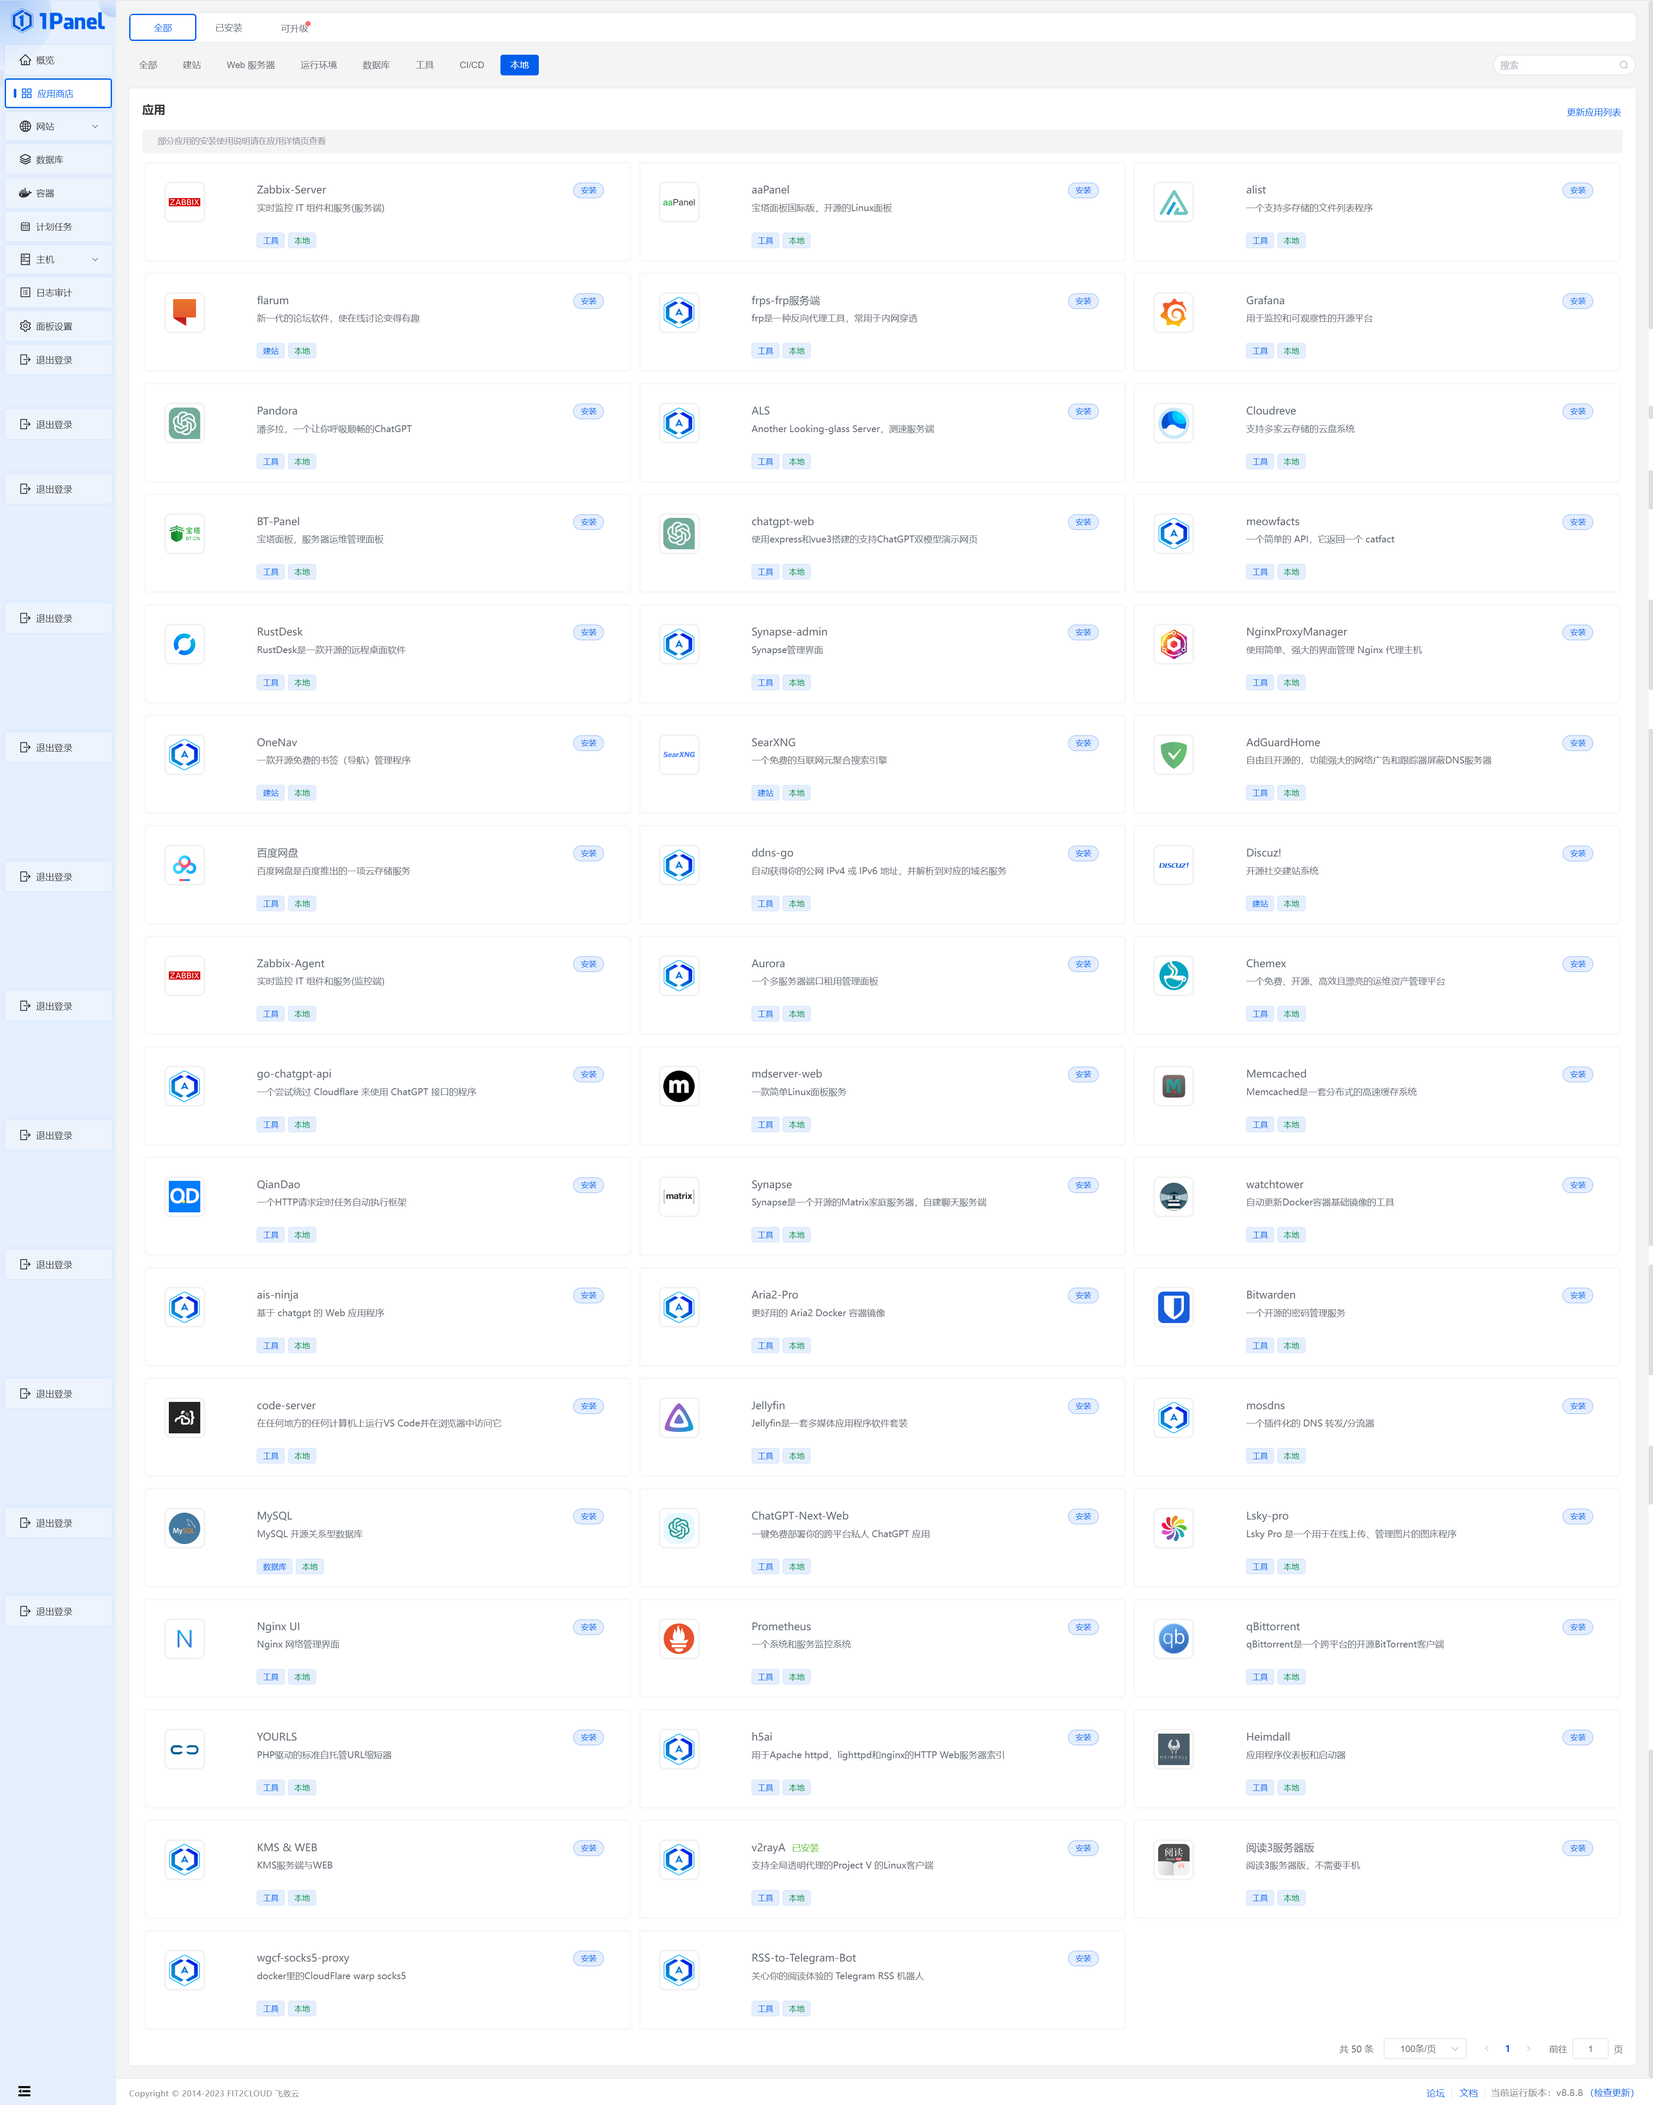
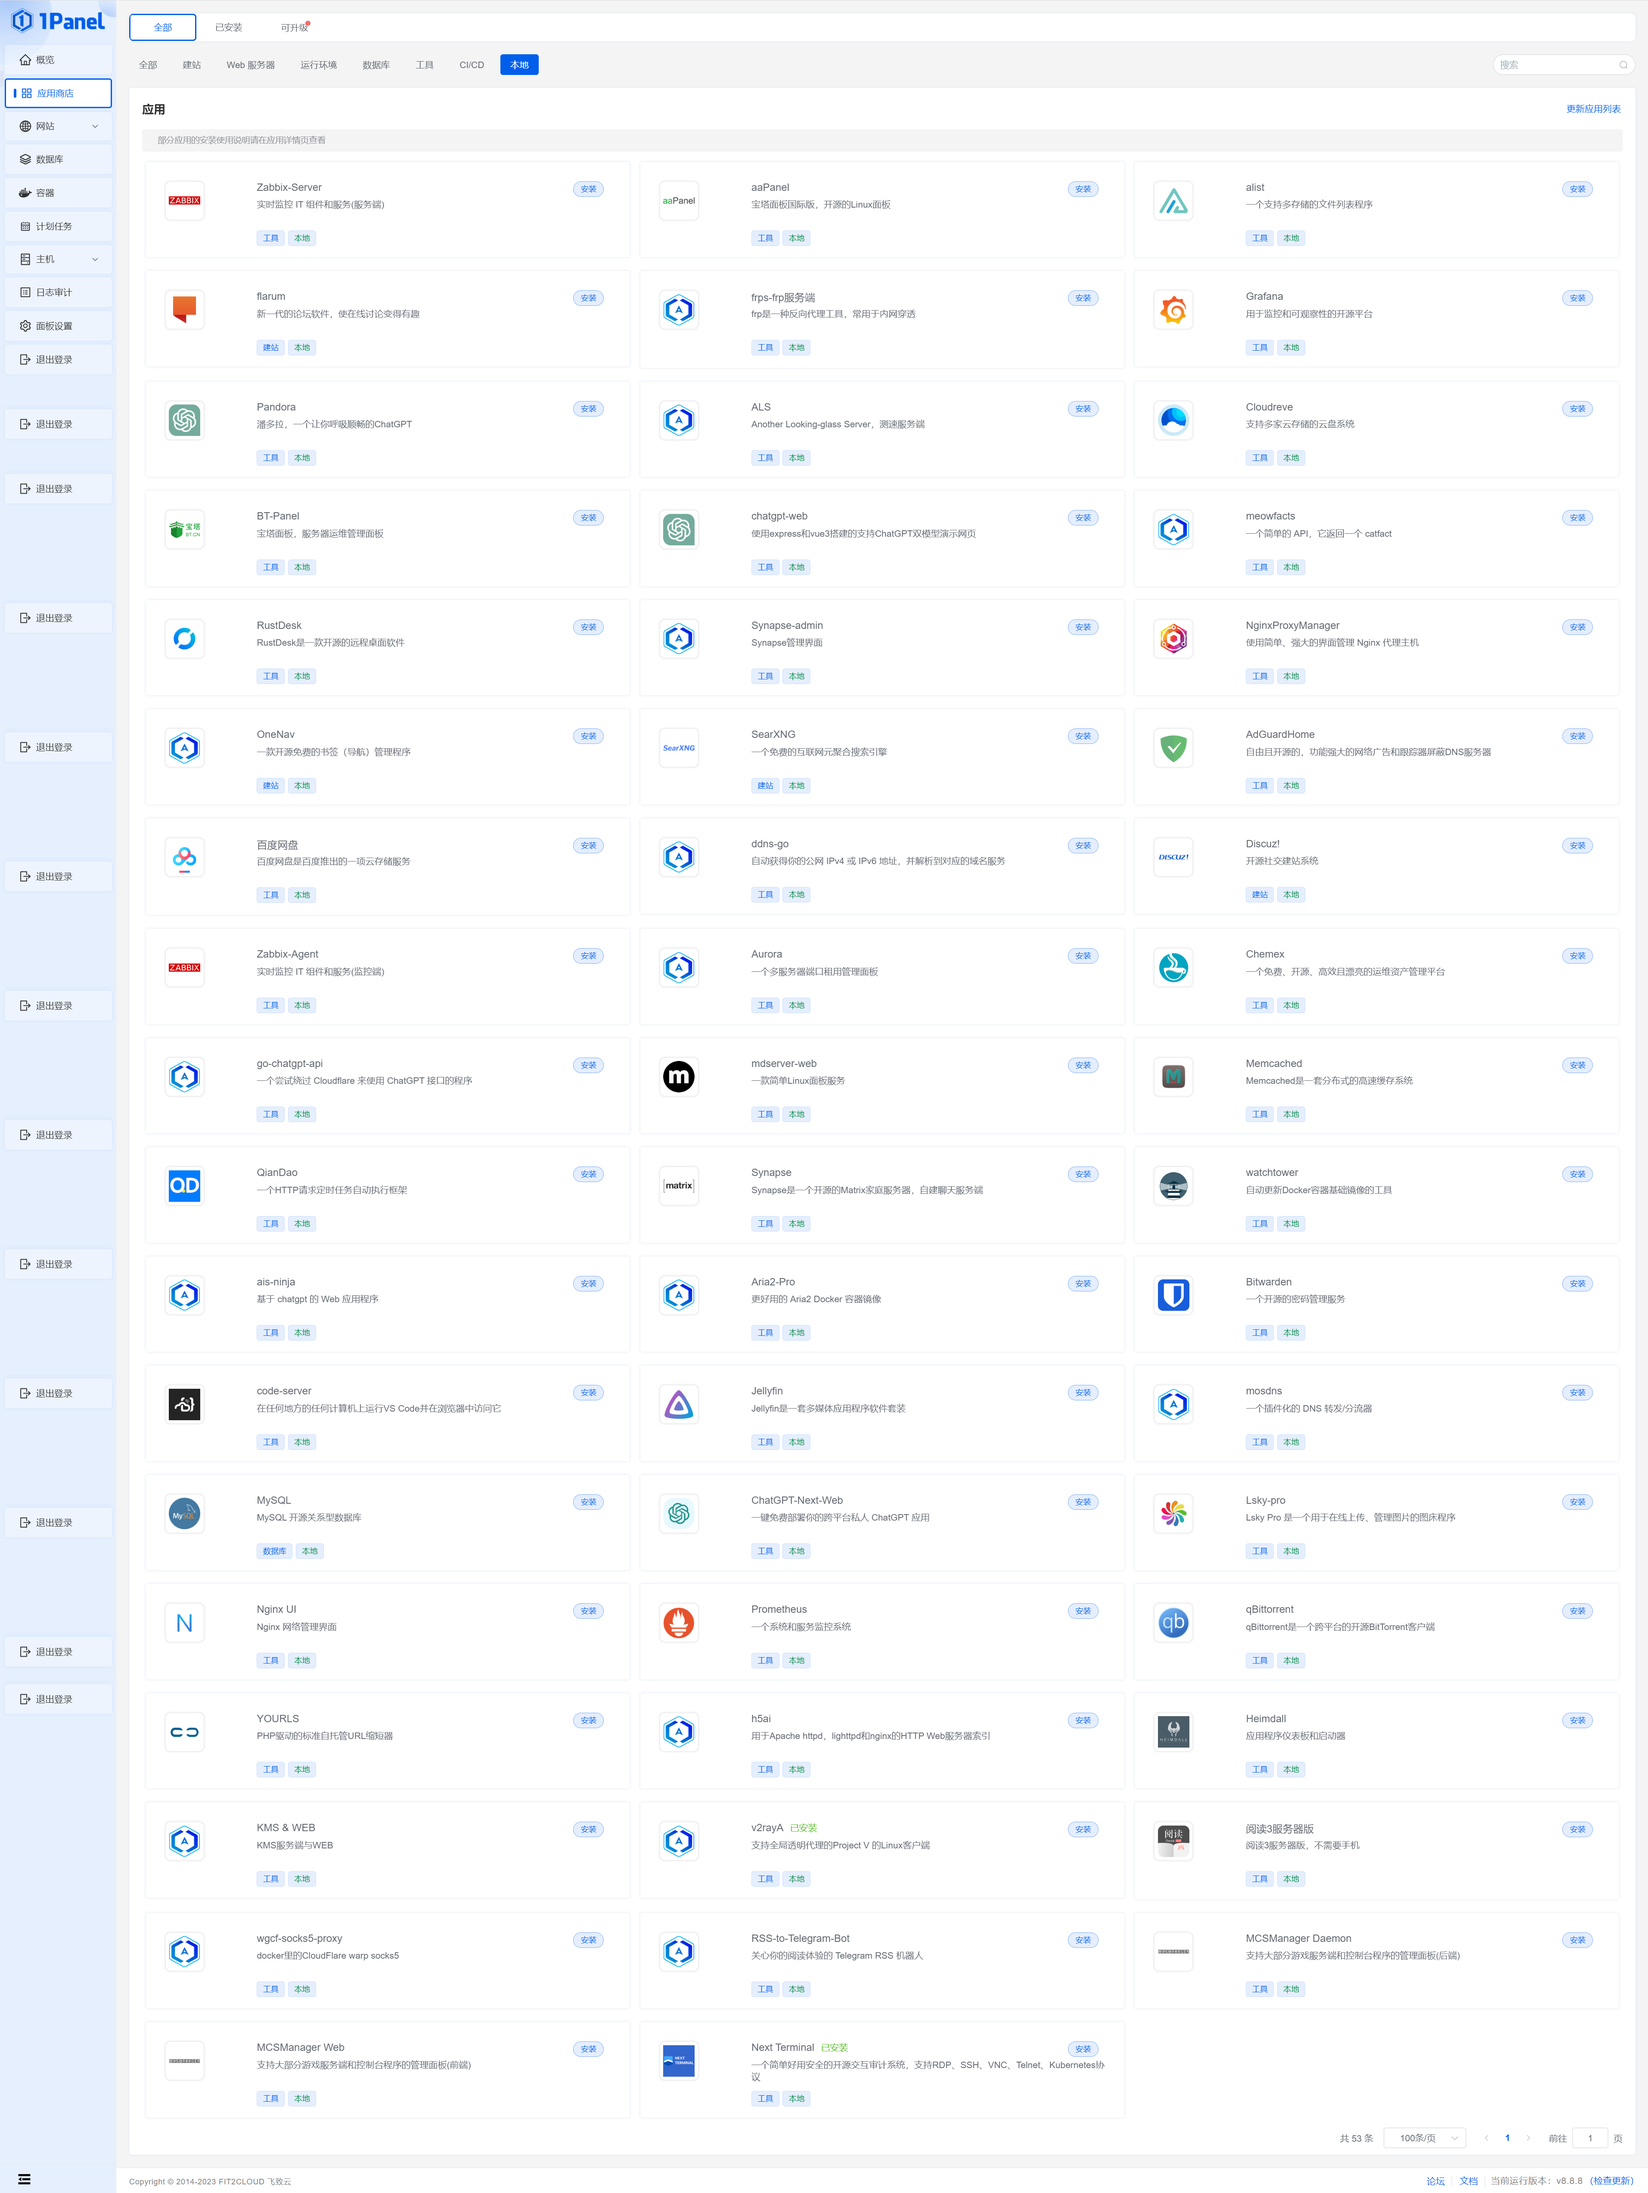
feat:添加next-terminal到列表

diff --git a/apps/next-terminal/README.md b/apps/next-terminal/README.md
@@ -1,0 +1,73 @@
+# Next Terminal
+
+[![Docker guacd build](https://github.com/dushixiang/next-terminal/actions/workflows/docker-guacd.yml/badge.svg)](https://github.com/dushixiang/next-terminal/actions/workflows/docker-guacd.yml)
+[![Docker next-terminal build](https://github.com/dushixiang/next-terminal/actions/workflows/docker-next-terminal.yml/badge.svg)](https://github.com/dushixiang/next-terminal/actions/workflows/docker-next-terminal.yml)
+
+## 快速了解
+
+Next Terminal是一个简单好用安全的开源交互审计系统，支持RDP、SSH、VNC、Telnet、Kubernetes协议。
+
+目前支持的功能有：
+
+- 授权凭证管理
+- 资产管理（支持RDP、SSH、VNC、TELNET协议）
+- 指令管理
+- 批量执行命令
+- 在线会话管理（监控、强制断开）
+- 离线会话管理（查看录屏）
+- 双因素认证
+- 资产标签
+- 资产授权
+- 多用户&用户分组
+- 计划任务
+- ssh server
+- 登录策略
+- 系统监控
+
+## 在线体验
+
+**web**
+
+https://next.typesafe.cn/ 账号：test  密码：test
+
+**ssh server**
+
+主机：next.typesafe.cn
+端口：2022
+账号：test  密码：test
+
+## 协议与条款
+
+如您需要在企业网络中使用 next-terminal，建议先征求 IT 管理员的同意。下载、使用或分发 next-terminal 前，您必须同意 [协议](./LICENSE) 条款与限制。本项目不提供任何担保，亦不承担任何责任。
+
+## 快速安装
+
+- [安装文档](https://next-terminal.typesafe.cn)
+
+默认账号密码为 admin/admin 。
+
+## 手动编译
+
+1. 找一台Linux 机器或者Mac
+2. 安装 go 1.18 或以上版本
+3. 安装 nodejs 16，安装 npm 或 yarn
+4. 进入 web 目录 执行 yarn 或 npm install
+5. 返回上级目录，也就是项目根目录，执行 sh build.sh
+
+## 问题反馈
+
+- Issues
+- 微信群 加我微信拉你进群 (请备注 next-terminal)
+
+<img src="https://github.com/dushixiang/next-terminal/raw/master/wx.png" width="300"  height="auto"/>
+
+- QQ群 938145268
+- Telegram https://t.me/next_terminal
+
+## 安全问题
+
+如果您在使用过程中发现了安全问题，请发送邮件至 helloworld1024@foxmail.com 联系我，谢谢。
+
+## License 
+
+Next Terminal 使用 [AGPL-3.0](./LICENSE) 开源协议，请自觉遵守。
